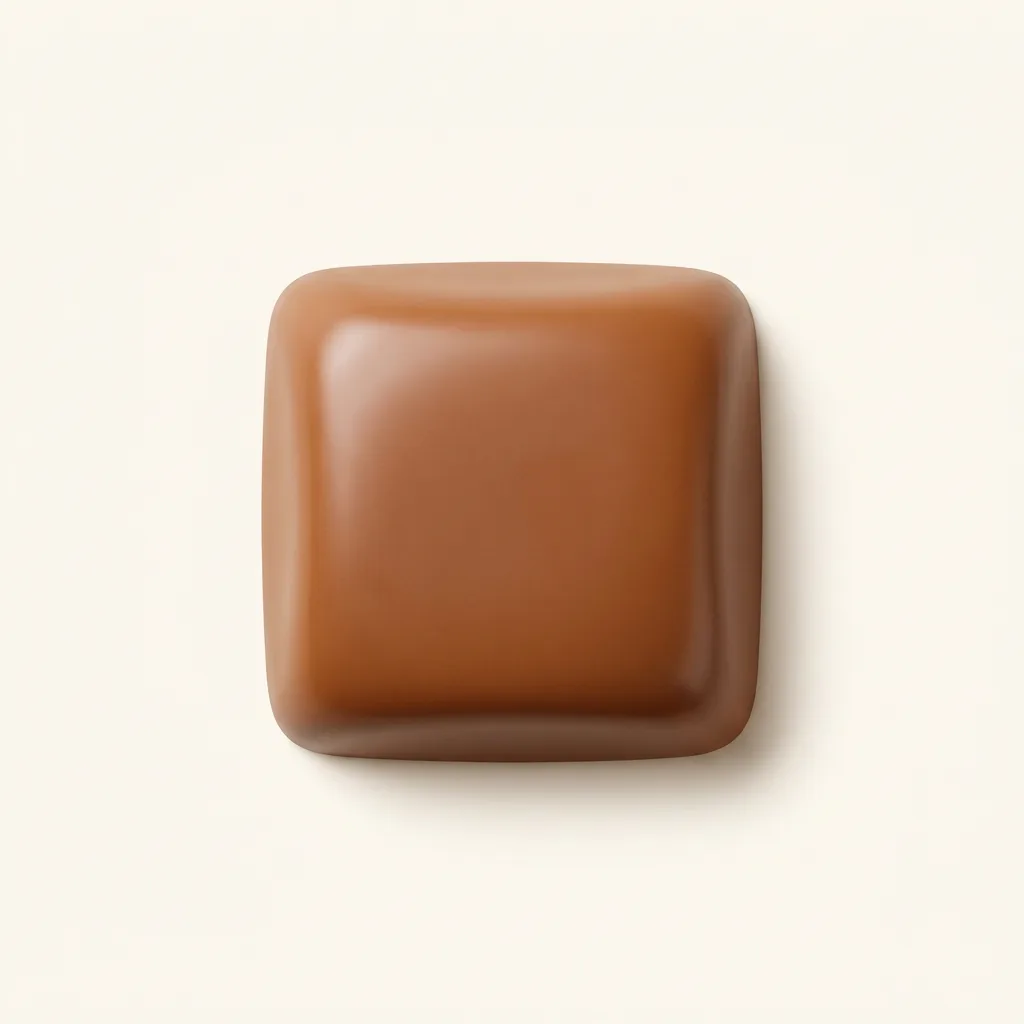
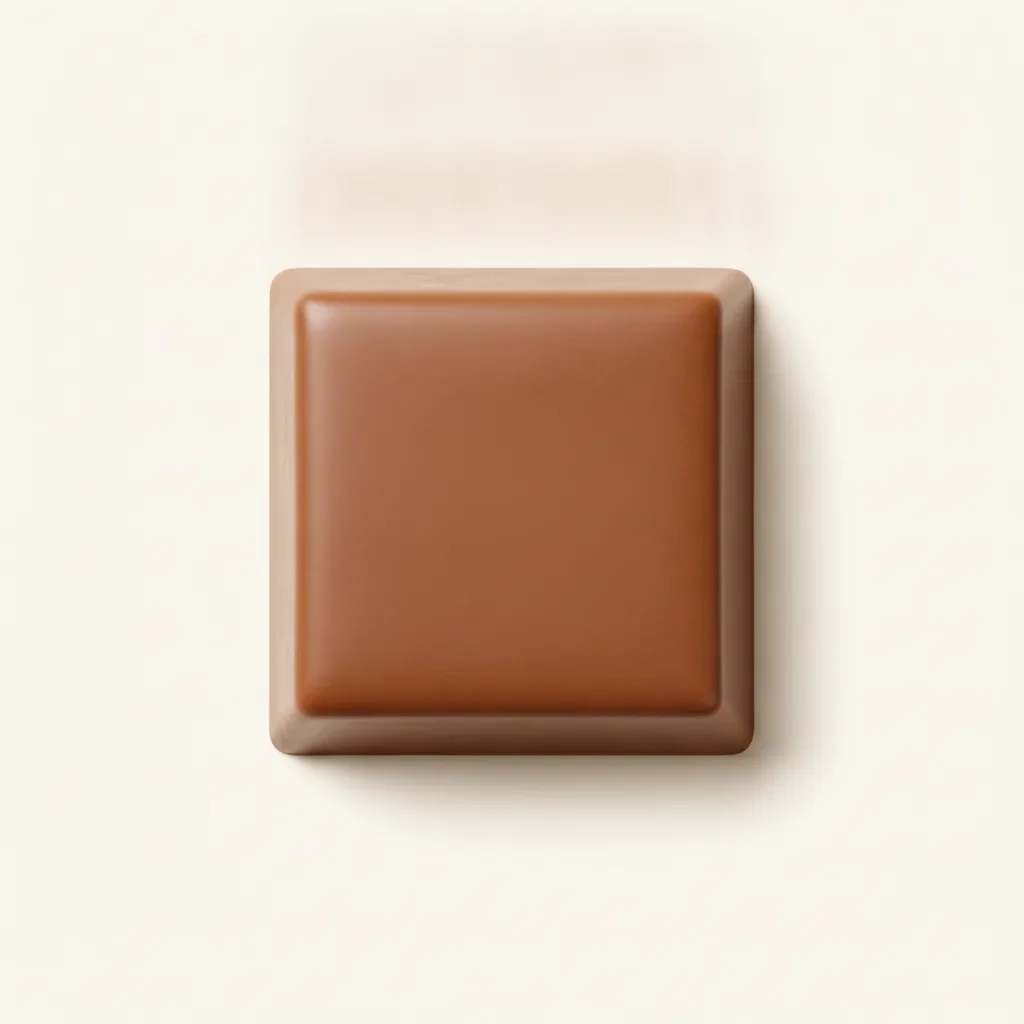
Studio: real flat-top bite faces, wrap constraint, hover wrap/unwrap cards
- Bite faces regenerated to the real moulded geometry (flat level top,
  crisp edges, slightly tapered sides, matte finish) from the owner's
  product photos; semidark recoloured from the milk render so both
  share identical geometry; BITE_PHOTO_CROP re-measured.
- Physical constraint: only flat pieces can be foil-wrapped. X+1 boxes
  (assorted moulded ring shapes) no longer offer the wrapped option;
  a note explains the assorted pieces pack unwrapped in paper cups.
- Wrapped/unwrapped choice is now two visual cards: the customer's own
  piece face vs the real foil photo, with hover preview labels.

Changed region(s): [[0.25, 0.25, 0.7812, 0.75], [0.4375, 0.1562, 0.6562, 0.2188], [0.3438, 0.1562, 0.4062, 0.2188]]

diff --git a/src/studio/steps/Step3Finishing.tsx b/src/studio/steps/Step3Finishing.tsx
@@ -1,4 +1,4 @@
-import { useRef, useState } from 'react';
+import { useEffect, useRef, useState } from 'react';
 import { AlertTriangle, Loader2 } from 'lucide-react';
 import { STEP_TITLES, STEP_SUBTITLES, STEP3_WRAPPED_COPY, STEP6_COPY } from '../copy';
 import { WRAPPER_MESSAGE_MAX, WRAPPER_SCALE_MIN, WRAPPER_SCALE_MAX } from '../constraints';
@@ -6,6 +6,9 @@ import { useStudio } from '../state/StudioContext';
 import { getPackagingOption } from '../data/packagingOptions';
 import { isBarProduct } from '../data/studioProducts';
 import { processWrapperImage } from '../lib/logoProcessor';
+import ChocolatePreview from '../preview/ChocolatePreview';
+import { cssCoverCrop, FOIL_BAR_PHOTO_CROP, FOIL_BITE_PHOTO_CROP } from '../preview/photoCrop';
+import type { Design } from '../types';
 
 const FOIL_SWATCHES: { key: 'silver' | 'gold'; hex: string }[] = [
   { key: 'silver', hex: '#C0C0C4' },
@@ -64,12 +67,97 @@ function ToggleCard({
 }
 
 /**
+ * One visual option card for the wrapped/unwrapped choice: shows the real
+ * preview of that state (the customer's own piece face for "unwrapped", the
+ * real foil product photo for "wrapped"), plus a hover-revealed label and
+ * the shared step selected/unselected card styling.
+ */
+function WrapPreviewCard({
+  design,
+  isWrappedState,
+  active,
+  title,
+  body,
+  onSelect,
+}: {
+  design: Design;
+  isWrappedState: boolean;
+  active: boolean;
+  title: string;
+  body: string;
+  onSelect: () => void;
+}) {
+  const isBar = isBarProduct(design.product);
+  const foilColour = design.extras.foil ?? 'silver';
+  const crop = (isBar ? FOIL_BAR_PHOTO_CROP : FOIL_BITE_PHOTO_CROP)[foilColour];
+  const foilSrc = isBar ? `/studio/foil-${foilColour}.webp` : `/studio/foil-bite-${foilColour}.webp`;
+  const cover = cssCoverCrop(crop);
+  const hoverLabel = isWrappedState ? STEP3_WRAPPED_COPY.wrappedCardLabel : STEP3_WRAPPED_COPY.unwrappedCardLabel;
+
+  return (
+    <button
+      type="button"
+      onClick={onSelect}
+      className={`group relative text-left p-6 border transition-all ${
+        active ? 'border-choco bg-choco text-cream' : 'border-choco/15 hover:border-gold bg-cream'
+      }`}
+    >
+      <div className="flex items-center gap-4 mb-4">
+        <div className="relative w-24 h-24 flex-shrink-0 flex items-center justify-center rounded-sm border border-choco/10 bg-cream transition-transform group-hover:scale-105">
+          {isWrappedState ? (
+            /* The cover-crop percentages assume the container matches the
+               crop's aspect ratio, so letterbox a correctly-proportioned
+               inner box inside the square thumbnail (bars are ~2:1). */
+            <div
+              className="relative w-full overflow-hidden"
+              style={{ aspectRatio: cover.aspectRatio, maxHeight: '100%' }}
+            >
+              <img
+                src={foilSrc}
+                alt=""
+                className="absolute max-w-none"
+                style={{
+                  left: cover.imgStyle.left,
+                  top: cover.imgStyle.top,
+                  width: cover.imgStyle.width,
+                  height: cover.imgStyle.height,
+                }}
+              />
+            </div>
+          ) : (
+            <ChocolatePreview design={design} size={96} />
+          )}
+          <span
+            className={`absolute inset-0 flex items-center justify-center bg-choco/60 opacity-0 group-hover:opacity-100 transition-opacity text-[10px] uppercase tracking-[0.2em] font-bold text-cream`}
+          >
+            {hoverLabel}
+          </span>
+        </div>
+        <div>
+          <h3 className="font-black uppercase tracking-tight text-lg mb-1">{title}</h3>
+          <p className={`text-sm ${active ? 'text-cream/70' : 'text-clay'}`}>{body}</p>
+        </div>
+      </div>
+      <span
+        className={`inline-block text-[10px] uppercase tracking-[0.2em] font-bold ${
+          active ? 'text-gold' : 'text-choco/40'
+        }`}
+      >
+        {active ? STEP3_WRAPPED_COPY.chosenCta : STEP3_WRAPPED_COPY.chooseCta}
+      </span>
+    </button>
+  );
+}
+
+/**
  * Wrapped/unwrapped choice + foil colour — merged in from the old standalone
  * "Wrapped or unwrapped" step. `isLoose` drives which extras field it writes
  * to: `extras.foil` alone for a loose pack, `extras.piecesWrapped` (plus
- * foil colour) for a boxed pack.
+ * foil colour) for a boxed pack. `assortedRing` (boxed only): the box's ring
+ * pieces are moulded assorted shapes, not the customer's flat canvas, so the
+ * choice is never offered — pieces always pack unwrapped in paper cups.
  */
-function WrappedSection({ isLoose }: { isLoose: boolean }) {
+function WrappedSection({ isLoose, assortedRing }: { isLoose: boolean; assortedRing?: boolean }) {
   const { design, dispatch } = useStudio();
   const wrapped = isLoose ? Boolean(design.extras.foil) : design.extras.piecesWrapped === true;
 
@@ -89,6 +177,21 @@ function WrappedSection({ isLoose }: { isLoose: boolean }) {
     }
   }
 
+  useEffect(() => {
+    if (!isLoose && assortedRing && design.extras.piecesWrapped !== false) {
+      dispatch({ type: 'SET_EXTRAS', extras: { piecesWrapped: false, foil: undefined } });
+    }
+    // eslint-disable-next-line react-hooks/exhaustive-deps
+  }, [isLoose, assortedRing, design.extras.piecesWrapped]);
+
+  if (!isLoose && assortedRing) {
+    return (
+      <section>
+        <p className="text-xs text-clay/70 italic font-serif">{STEP3_WRAPPED_COPY.assortedRingNote}</p>
+      </section>
+    );
+  }
+
   const wrappedTitle = isLoose ? STEP3_WRAPPED_COPY.looseWrappedTitle : STEP3_WRAPPED_COPY.boxedWrappedTitle;
   const wrappedBody = isLoose ? STEP3_WRAPPED_COPY.looseWrappedBody : STEP3_WRAPPED_COPY.boxedWrappedBody;
   const unwrappedTitle = isLoose ? STEP3_WRAPPED_COPY.looseUnwrappedTitle : STEP3_WRAPPED_COPY.boxedUnwrappedTitle;
@@ -97,38 +200,22 @@ function WrappedSection({ isLoose }: { isLoose: boolean }) {
   return (
     <section>
       <div className="grid grid-cols-1 sm:grid-cols-2 gap-5 mb-6">
-        <button
-          onClick={chooseWrapped}
-          className={`relative text-left p-6 border transition-all ${
-            wrapped ? 'border-choco bg-choco text-cream' : 'border-choco/15 hover:border-gold bg-cream'
-          }`}
-        >
-          <h3 className="font-black uppercase tracking-tight text-lg mb-1">{wrappedTitle}</h3>
-          <p className={`text-sm ${wrapped ? 'text-cream/70' : 'text-clay'}`}>{wrappedBody}</p>
-          <span
-            className={`inline-block mt-4 text-[10px] uppercase tracking-[0.2em] font-bold ${
-              wrapped ? 'text-gold' : 'text-choco/40'
-            }`}
-          >
-            {wrapped ? STEP3_WRAPPED_COPY.chosenCta : STEP3_WRAPPED_COPY.chooseCta}
-          </span>
-        </button>
-        <button
-          onClick={chooseUnwrapped}
-          className={`relative text-left p-6 border transition-all ${
-            !wrapped ? 'border-choco bg-choco text-cream' : 'border-choco/15 hover:border-gold bg-cream'
-          }`}
-        >
-          <h3 className="font-black uppercase tracking-tight text-lg mb-1">{unwrappedTitle}</h3>
-          <p className={`text-sm ${!wrapped ? 'text-cream/70' : 'text-clay'}`}>{unwrappedBody}</p>
-          <span
-            className={`inline-block mt-4 text-[10px] uppercase tracking-[0.2em] font-bold ${
-              !wrapped ? 'text-gold' : 'text-choco/40'
-            }`}
-          >
-            {!wrapped ? STEP3_WRAPPED_COPY.chosenCta : STEP3_WRAPPED_COPY.chooseCta}
-          </span>
-        </button>
+        <WrapPreviewCard
+          design={design}
+          isWrappedState
+          active={wrapped}
+          title={wrappedTitle}
+          body={wrappedBody}
+          onSelect={chooseWrapped}
+        />
+        <WrapPreviewCard
+          design={design}
+          isWrappedState={false}
+          active={!wrapped}
+          title={unwrappedTitle}
+          body={unwrappedBody}
+          onSelect={chooseUnwrapped}
+        />
       </div>
 
       {wrapped && (
@@ -368,7 +455,7 @@ export default function Step3Finishing() {
         </div>
       ) : (
         <div className="space-y-10">
-          <WrappedSection isLoose={false} />
+          <WrappedSection isLoose={false} assortedRing={option?.assortedRing} />
 
           {/* Ribbon */}
           <section>

diff --git a/src/studio/types.ts b/src/studio/types.ts
@@ -145,6 +145,14 @@ export interface PackagingOption {
   occasions: string[];
   /** X+1 signature boxes: N individually arrangeable ring pieces around one large message bar. */
   centerBar?: true;
+  /**
+   * True when the surrounding ring pieces are moulded assorted shapes (not
+   * the customer's flat canvas) and therefore can never be individually
+   * foil-wrapped — they pack unwrapped in paper cups. Set on the X+1 boxes
+   * except 'wedding-favor', whose single piece is a flat bar and stays
+   * wrappable.
+   */
+  assortedRing?: boolean;
   /** Shape of the center bar's face; 'square' (85×85mm, 60g) unless noted. */
   centerBarShape?: 'square' | 'rectangle';
   /** Real product photo used as the box preview, when available. */

diff --git a/src/studio/preview/photoCrop.ts b/src/studio/preview/photoCrop.ts
@@ -95,13 +95,14 @@ export const BAR_PHOTO_CROP: Record<ChocolateKey, PhotoCrop> = {
   semidark: { pw: 1264, ph: 848, left: 290, top: 249, right: 973, bottom: 598 },
 };
 
-// The bite's face is a thick, domed pillow with no embossed border line, so
+// The bite's face is a thick flat-topped square (crisp edges, tapered
+// sides) with no embossed border line, so
 // its bounding box is measured the same edge-detection way but stored
 // separately from PIECE_PHOTO_CROP (the flat bordered piece used for
 // Signature/center-bar faces).
 export const BITE_PHOTO_CROP: Record<ChocolateKey, PhotoCrop> = {
-  milk: { pw: 1024, ph: 1024, left: 260, top: 261, right: 763, bottom: 763 },
-  semidark: { pw: 1024, ph: 1024, left: 204, top: 203, right: 820, bottom: 819 },
+  milk: { pw: 1024, ph: 1024, left: 268, top: 267, right: 755, bottom: 756 },
+  semidark: { pw: 1024, ph: 1024, left: 268, top: 267, right: 755, bottom: 756 },
 };
 
 type FoilColour = 'silver' | 'gold';

diff --git a/src/studio/copy.ts b/src/studio/copy.ts
@@ -256,6 +256,11 @@ export const STEP3_WRAPPED_COPY = {
   chosenCta: 'Chosen',
   chooseCta: 'Choose',
   foilPickerTitle: 'Foil colour',
+  wrappedCardLabel: 'Wrapped',
+  unwrappedCardLabel: 'Unwrapped',
+  // X+1 boxes: the ring pieces are moulded assorted shapes, not the
+  // customer's flat canvas, so they can never be individually foil-wrapped.
+  assortedRingNote: 'The assorted pieces around your message bar pack unwrapped, set in paper cups.',
 };
 
 /** Summary naming for X+1 boxes in WhatsApp / print output. */

diff --git a/src/studio/preview/ChocolatePreview.tsx b/src/studio/preview/ChocolatePreview.tsx
@@ -21,7 +21,7 @@ const PHOTO_MIN_SIZE = 48;
 /**
  * The bordered photo bases (bar and piece faces) carry their own embossed
  * border a short way in from the edge, so marks/patterns must stay inside
- * it. The bite face has no border line — it's a plain domed pillow — so its
+ * it. The bite face has no border line — a plain flat-topped square — so its
  * safe area can extend closer to the edge.
  */
 const MARK_SAFE_RATIO = 0.78;
@@ -147,7 +147,7 @@ export default function ChocolatePreview({ design, cell, size = 220, shape }: Ch
   // it always renders via the SVG gradient body below, never a photo base.
   const isSlim = !shape && design.product === 'slim';
   const isBar = shape === 'rectangle' || (!shape && design.product === 'bar') || isSlim;
-  // The Crafty Bite's face — a thick, borderless, domed pillow — is a
+  // The Crafty Bite's face — a thick, borderless, flat-topped square — is a
   // distinct object from the flat bordered piece face used by Signature and
   // center bars, so it gets its own photo base and a relaxed mark inset.
   const isBite = !isBar && (!shape || shape === 'square') && design.product === 'bite';

diff --git a/src/studio/data/packagingOptions.ts b/src/studio/data/packagingOptions.ts
@@ -18,6 +18,7 @@ export const PACKAGING_OPTIONS: PackagingOption[] = [
     occasions: ['birthday', 'corporate'],
     centerBar: true,
     centerBarShape: 'rectangle',
+    assortedRing: true,
     photo: '/studio/box-4p1.webp',
     overlay: { x: 28.4, y: 47.2, w: 42.9, h: 18.8 },
     boxDims: '16 × 20 × 3 cm',
@@ -31,6 +32,7 @@ export const PACKAGING_OPTIONS: PackagingOption[] = [
     occasions: ['wedding', 'eid', 'birthday'],
     centerBar: true,
     centerBarShape: 'square',
+    assortedRing: true,
     photo: '/studio/box-9p1.webp',
     overlay: { x: 34.5, y: 32.5, w: 31.8, h: 31.5 },
     boxDims: '11 × 11 × 5.5 cm',
@@ -44,6 +46,7 @@ export const PACKAGING_OPTIONS: PackagingOption[] = [
     occasions: ['corporate', 'wedding', 'eid'],
     centerBar: true,
     centerBarShape: 'square',
+    assortedRing: true,
     photo: '/studio/box-16p1.webp',
     overlay: { x: 35.8, y: 35.9, w: 28.8, h: 27.4 },
     boxDims: '20 × 20 × 5.5 cm',